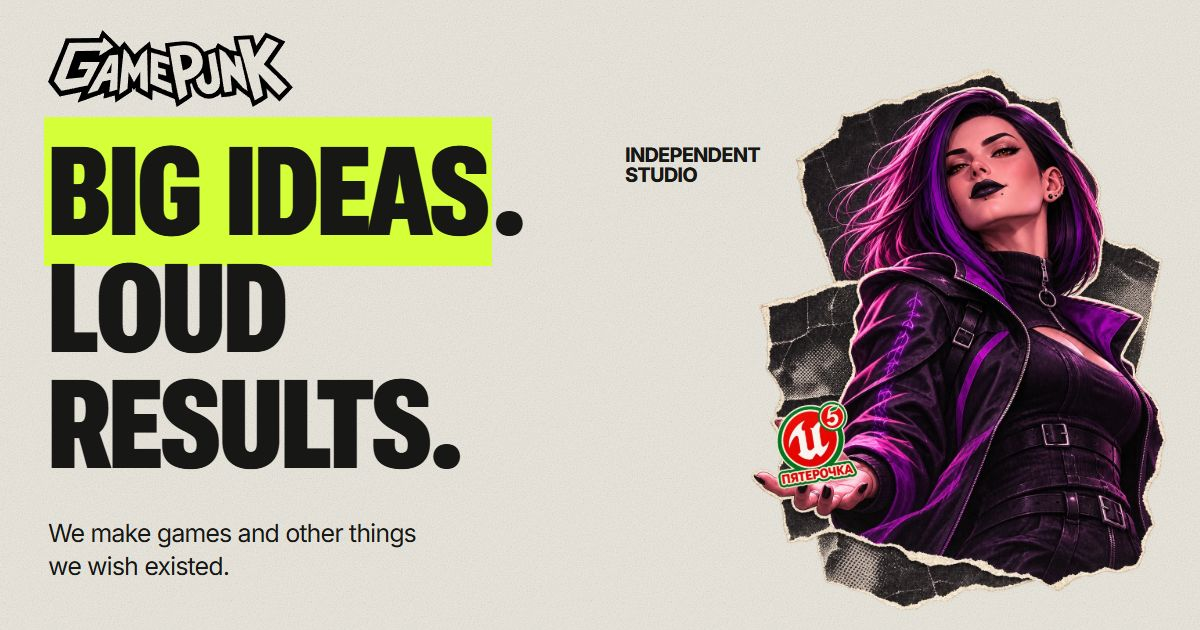
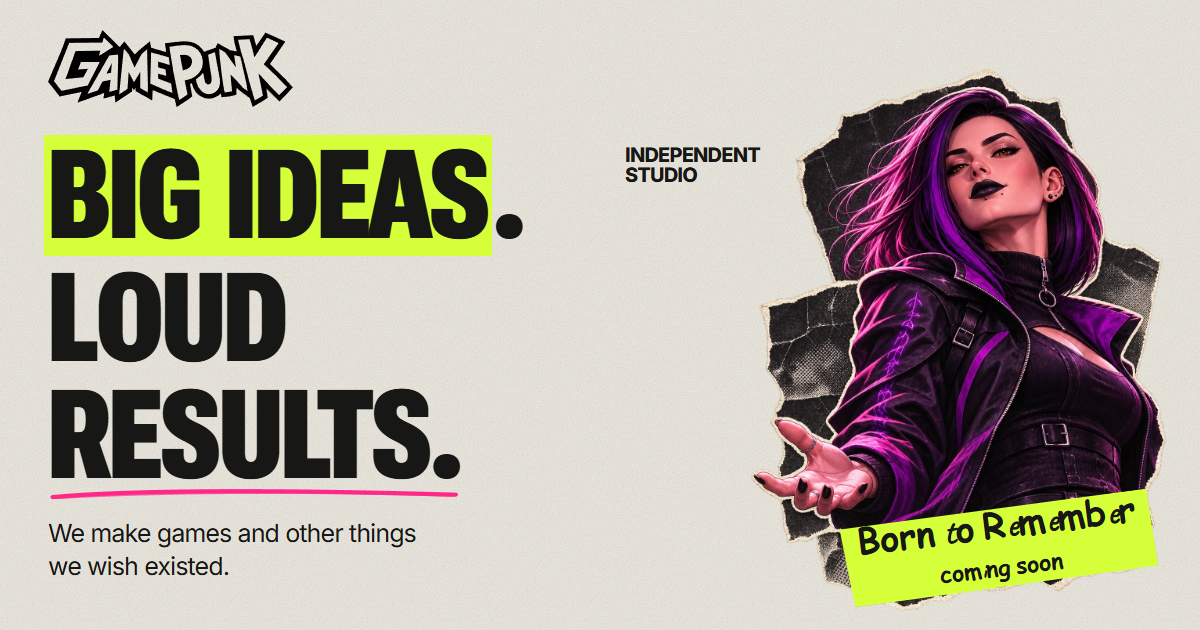
Sync bilingual social previews with the studio homepage

diff --git a/src/constants/studioCopy.ts b/src/constants/studioCopy.ts
@@ -3,10 +3,10 @@ import { profileExperience } from "@/content/proof";
 export const studioCopy = {
   ru: {
     skip: "Перейти к содержимому", home: "GamePunk — главная", navigation: "Навигация студии", language: "Язык сайта",
-    projects: "Проекты", studio: "Студия", contact: "Связаться", hero: ["ЕСТЬ ИДЕЯ", "БУДЕТ", "ГРОМКО."],
+    projects: "Проекты", studio: "Студия", contact: "Связаться", hero: ["ДЕЛАЕМ ИГРЫ", "С ХАРАКТЕРОМ."],
     description: "Делаем игры и другие штуки,", descriptionEnd: "которых нам самим не хватает.", viewProjects: "Смотреть проекты",
     independent: ["НЕЗАВИСИМАЯ", "СТУДИЯ"], collageAlt: "Малена с обложки «Рождённая помнить» в коллаже из рваной бумаги",
-    stickerAlt: "Наклейка: Unreal Engine в стиле «Пятёрочки»", characterSticker: "Рождённая помнить", releaseNote: "скоро", projectsKicker: "01 / ПРОЕКТЫ", projectsTitle: "Что мы натворили",
+    characterSticker: "Рождённая помнить", releaseNote: "скоро", projectsKicker: "01 / ПРОЕКТЫ", projectsTitle: "Что мы натворили",
     gameTypes: ["Дуэли с отстрелом конечностей", "PSX-стайл хоррор"], cover: "Обложка игры",
     malena: "Малена", malenaType: "ИИ с характером", malenaAlt: "Малена в зелёном платье среди ночных руин и цветов",
     moreGames: "Больше игр в Steam", manifestoKicker: "02 / МАНИФЕСТ", manifesto: ["СВОБОДА ДЕЛАТЬ", "ПО-СВОЕМУ."],
@@ -26,10 +26,10 @@ export const studioCopy = {
   },
   en: {
     skip: "Skip to content", home: "GamePunk — home", navigation: "Studio navigation", language: "Site language",
-    projects: "Projects", studio: "Studio", contact: "Contact", hero: ["BIG IDEAS", "LOUD", "RESULTS."],
+    projects: "Projects", studio: "Studio", contact: "Contact", hero: ["WE MAKE GAMES", "WITH CHARACTER."],
     description: "We make games and other things", descriptionEnd: "we wish existed.", viewProjects: "Explore our projects",
     independent: ["INDEPENDENT", "STUDIO"], collageAlt: "Malena from the Born to Remember cover in a torn-paper collage",
-    stickerAlt: "Sticker: Unreal Engine styled as a Pyaterochka supermarket logo", characterSticker: "Born to Remember", releaseNote: "coming soon", projectsKicker: "01 / PROJECTS", projectsTitle: "What we’ve been up to",
+    characterSticker: "Born to Remember", releaseNote: "coming soon", projectsKicker: "01 / PROJECTS", projectsTitle: "What we’ve been up to",
     gameTypes: ["Duels with limb dismemberment", "PSX-style horror"], cover: "Game cover:",
     malena: "Malena", malenaType: "AI with attitude", malenaAlt: "Malena in a green dress among moonlit ruins and flowers",
     moreGames: "More games on Steam", manifestoKicker: "02 / MANIFESTO", manifesto: ["THE FREEDOM TO", "DO IT OUR WAY."],

diff --git a/src/pages/Index.tsx b/src/pages/Index.tsx
@@ -13,7 +13,7 @@ import { trackAnalytics } from "@/lib/analytics";
 import { legalHref } from "@/lib/siteContext";
 import { studioCopy } from "@/constants/studioCopy";
 import { studioLocale } from "@/lib/studioLocale";
-import heroCollage from "@/assets/studio/hero-collage.webp";
+import { StudioHeroCollage, StudioHeroTitle } from "@/components/StudioHero";
 import studioLogo from "@/assets/studio/gamepunk-logo.svg";
 import paintArrow from "@/assets/studio/paint-arrow.webp";
 import heroPhoto from "@/assets/hero-photo.webp";
@@ -53,18 +53,12 @@ const Index = () => {
       <main id="main-content" tabIndex={-1}>
         <section className="studio-hero studio-container" aria-labelledby="studio-title">
           <div className="studio-hero-copy">
-            <h1 id="studio-title"><span className="studio-title-line"><span className="studio-title-highlight">{copy.hero[0]}</span>.</span><span className="studio-title-line">{copy.hero[1]}</span><span className="studio-title-line"><span className="studio-title-marked">{copy.hero[2]}<svg viewBox="0 0 600 24" preserveAspectRatio="none" fill="none" aria-hidden="true"><path d="M7 17C126 4 357 5 591 13" /><path d="M13 19C153 9 375 7 587 15" /></svg></span></span></h1>
+            <StudioHeroTitle locale={locale} />
             <p className="studio-hero-description">{copy.description}<br className="studio-desktop-break" /> {copy.descriptionEnd}</p>
             <a href="#projects" className={buttonStyles({ variant: "unstyled", size: "none", effect: "none", className: "studio-button" })}>{copy.viewProjects} <ArrowDown aria-hidden="true" /></a>
           </div>
           <p className="studio-eyebrow">{copy.independent[0]}<br />{copy.independent[1]}</p>
-          <div className="studio-collage">
-            <img className="studio-collage-art" src={heroCollage} width="1088" height="1440" alt={copy.collageAlt} {...{ fetchpriority: "high" }} />
-            <span className="studio-character-sticker">
-              {copy.characterSticker}<br />
-              <small>{copy.releaseNote}</small>
-            </span>
-          </div>
+          <StudioHeroCollage locale={locale} className="studio-collage" />
         </section>
 
         <section id="projects" className="studio-projects studio-container" aria-labelledby="studio-projects-title">

diff --git a/src/components/StudioSnippet.tsx b/src/components/StudioSnippet.tsx
@@ -1,6 +1,5 @@
-import heroCollage from "@/assets/studio/hero-collage.webp";
+import { StudioHeroCollage, StudioHeroTitle } from "@/components/StudioHero";
 import studioLogo from "@/assets/studio/gamepunk-logo.svg";
-import unrealSticker from "@/assets/studio/unreal-five-sticker.webp";
 import { studioCopy } from "@/constants/studioCopy";
 import type { StudioLocale } from "@/lib/studioLocale";
 import "@/components/studio-snippet.css";
@@ -12,13 +11,10 @@ const StudioSnippet = ({ locale }: { locale: StudioLocale }) => {
       <div className="snippet-frame">
         <div id="og-snippet-container" className="studio-page studio-snippet" lang={locale}>
           <img className="studio-snippet-logo" src={studioLogo} width="1756" height="551" alt="GamePunk" />
-          <h1><span><mark>{copy.hero[0]}</mark>.</span><span>{copy.hero[1]}</span><span>{copy.hero[2]}</span></h1>
+          <StudioHeroTitle locale={locale} />
           <p className="studio-snippet-description">{copy.description}<br />{copy.descriptionEnd}</p>
           <p className="studio-snippet-label">{copy.independent[0]}<br />{copy.independent[1]}</p>
-          <div className="studio-snippet-collage">
-            <img className="studio-snippet-art" src={heroCollage} width="1088" height="1440" alt={copy.collageAlt} />
-            <img className="studio-snippet-sticker" src={unrealSticker} width="384" height="351" alt={copy.stickerAlt} />
-          </div>
+          <StudioHeroCollage locale={locale} className="studio-snippet-collage" />
         </div>
       </div>
     </main>

diff --git a/src/test/prerender.test.tsx b/src/test/prerender.test.tsx
@@ -21,12 +21,14 @@ const parseMarkup = (html: string) => {
 };
 
 describe("readable server rendering", () => {
-  it.each([["ru", "ЕСТЬ ИДЕЯ"], ["en", "BIG IDEAS"]])("renders the %s studio preview with the homepage logo and collage", async (language, heading) => {
+  it.each([["ru", "ДЕЛАЕМ ИГРЫ"], ["en", "WE MAKE GAMES"]])("renders the %s studio preview with the homepage logo and collage", async (language, heading) => {
     const doc = parseMarkup(await render(`/snippet/?view=studio&lang=${language}`));
     expect(doc.querySelector("h1")?.textContent).toContain(heading);
     expect(doc.querySelector('.studio-snippet-logo')?.getAttribute("src")).toContain("gamepunk-logo.svg");
-    expect(doc.querySelector('.studio-snippet-art')?.getAttribute("src")).toContain("hero-collage.webp");
-    expect(doc.querySelector('.studio-snippet-sticker')?.getAttribute("src")).toContain("unreal-five-sticker.webp");
+    expect(doc.querySelector('.studio-snippet-collage .studio-collage-art')?.getAttribute("src")).toContain("hero-collage.webp");
+    const sticker = doc.querySelector(".studio-character-sticker");
+    expect(sticker?.firstChild?.textContent).toBe(language === "ru" ? "Рождённая помнить" : "Born to Remember");
+    expect(sticker?.querySelector("small")?.textContent).toBe(language === "ru" ? "скоро" : "coming soon");
     expect(doc.querySelector('#og-snippet-container')?.getAttribute("lang")).toBe(language);
   });
   it("renders the Academy preview without replacing the personal preview", async () => {

diff --git a/src/components/StudioHero.tsx b/src/components/StudioHero.tsx
@@ -1,0 +1,32 @@
+import heroCollage from "@/assets/studio/hero-collage.webp";
+import { studioCopy } from "@/constants/studioCopy";
+import type { StudioLocale } from "@/lib/studioLocale";
+
+export function StudioHeroTitle({ locale }: { locale: StudioLocale }) {
+  const { hero } = studioCopy[locale];
+  return (
+    <h1 id="studio-title">
+      <span className="studio-title-line"><span className="studio-title-highlight">{hero[0]}</span></span>{" "}
+      <span className="studio-title-line">
+        <span className="studio-title-marked">{hero[1]}
+          <svg viewBox="0 0 600 24" preserveAspectRatio="none" fill="none" aria-hidden="true">
+            <path d="M7 17C126 4 357 5 591 13" /><path d="M13 19C153 9 375 7 587 15" />
+          </svg>
+        </span>
+      </span>
+    </h1>
+  );
+}
+
+export function StudioHeroCollage({ locale, className }: { locale: StudioLocale; className: string }) {
+  const copy = studioCopy[locale];
+  return (
+    <div className={className}>
+      <img className="studio-collage-art" src={heroCollage} width="1088" height="1440" alt={copy.collageAlt} {...{ fetchpriority: "high" }} />
+      <span className="studio-character-sticker">
+        {copy.characterSticker}<br />
+        <small>{copy.releaseNote}</small>
+      </span>
+    </div>
+  );
+}

diff --git a/src/components/studio-snippet.css b/src/components/studio-snippet.css
@@ -1,10 +1,6 @@
 .studio-snippet { width: 1200px; height: 630px; overflow: hidden; }
 .studio-snippet-logo { position: absolute; top: 30px; left: 48px; width: 245px; height: auto; }
 .studio-snippet h1 { position: absolute; top: 135px; left: 48px; z-index: 2; font-family: 'Studio Poster', Impact, sans-serif; font-weight: 800; font-variation-settings: 'wdth' 55; font-size: 124px; line-height: .94; letter-spacing: -.015em; }
-.studio-snippet h1 > span { display: block; white-space: nowrap; }
-.studio-snippet mark { color: inherit; background: var(--studio-lime); padding: .025em .035em .01em; margin-left: -.035em; }
 .studio-snippet-description { position: absolute; left: 48px; bottom: 46px; font-size: 25px; line-height: 1.35; letter-spacing: -.035em; }
 .studio-snippet-label { position: absolute; left: 625px; top: 145px; z-index: 2; font-size: 20px; line-height: 1.02; font-weight: 800; letter-spacing: -.04em; }
 .studio-snippet-collage { position: absolute; right: 28px; bottom: 12px; width: 425px; }
-.studio-snippet-art { display: block; width: 100%; height: auto; }
-.studio-snippet-sticker { position: absolute; width: 25%; height: auto; left: 3%; bottom: 22%; transform: rotate(-9deg); }

diff --git a/src/assets/studio/README.md b/src/assets/studio/README.md
@@ -3,9 +3,9 @@
 В шапке и подвале используется авторский `gamepunk-logo.svg`, без изменения геометрии,
 из `O:/YandexDisk/GamePunk Studio/Оформление студии/ЛОГО/2026/GAMEPUNK_CLEAN.svg`.
 
-`hero-collage.webp`, `unreal-five-sticker.webp` и `paint-arrow.webp` подготовлены
+`hero-collage.webp` и `paint-arrow.webp` подготовлены
 встроенным imagegen. Прозрачность сохранена при экспорте в WebP; стрелка уменьшена
-до 512 × 512, наклейка — до 384 × 351. Текст страницы остаётся HTML.
+до 512 × 512. Текст страницы остаётся HTML.
 
 Коллаж использует переданную автором обложку
 `X:/ПЕТУХОН/МАЛЕНА/ПЕСНИ/Рождённая помнить/cover.png`.
@@ -16,14 +16,6 @@
 волокнистыми разрывами и полутоновым растром. Портретная композиция от волос
 до пояса, рука целиком. Не добавлять шрам, украшения, символы, надписи или звёздочку.
 Сохранить фиолетовые акценты и рисованный характер; прозрачность снаружи коллажа.
-
-Наклейка подготовлена из `X:/ПЕТУХОН/МАЛЕНА/photo_2026-11-07_17-38-22.jpg`.
-Бриф: выделить только пародийную эмблему над ладонью — красный круг с зелёной
-и светлой обводкой, белый знак Unreal, маленький значок «5» и слово «ПЯТЕРОЧКА».
-Убрать персонажа, руку и весь фон. Сохранить геометрию, цвета и текст эмблемы;
-добавить узкий светлый край вырубной бумажной наклейки и лёгкое зерно печати.
-Без перспективы, теней и дополнительных объектов; прозрачный фон.
-Это декоративная шутка из авторского арта, не обозначение партнёрства.
 
 Бриф стрелки: стрелка на северо-восток из трёх прямых полос малярного валика,
 кислотно-лаймовая `#d4ff39`. Постоянная ширина полос, тупые окончания, открытый
